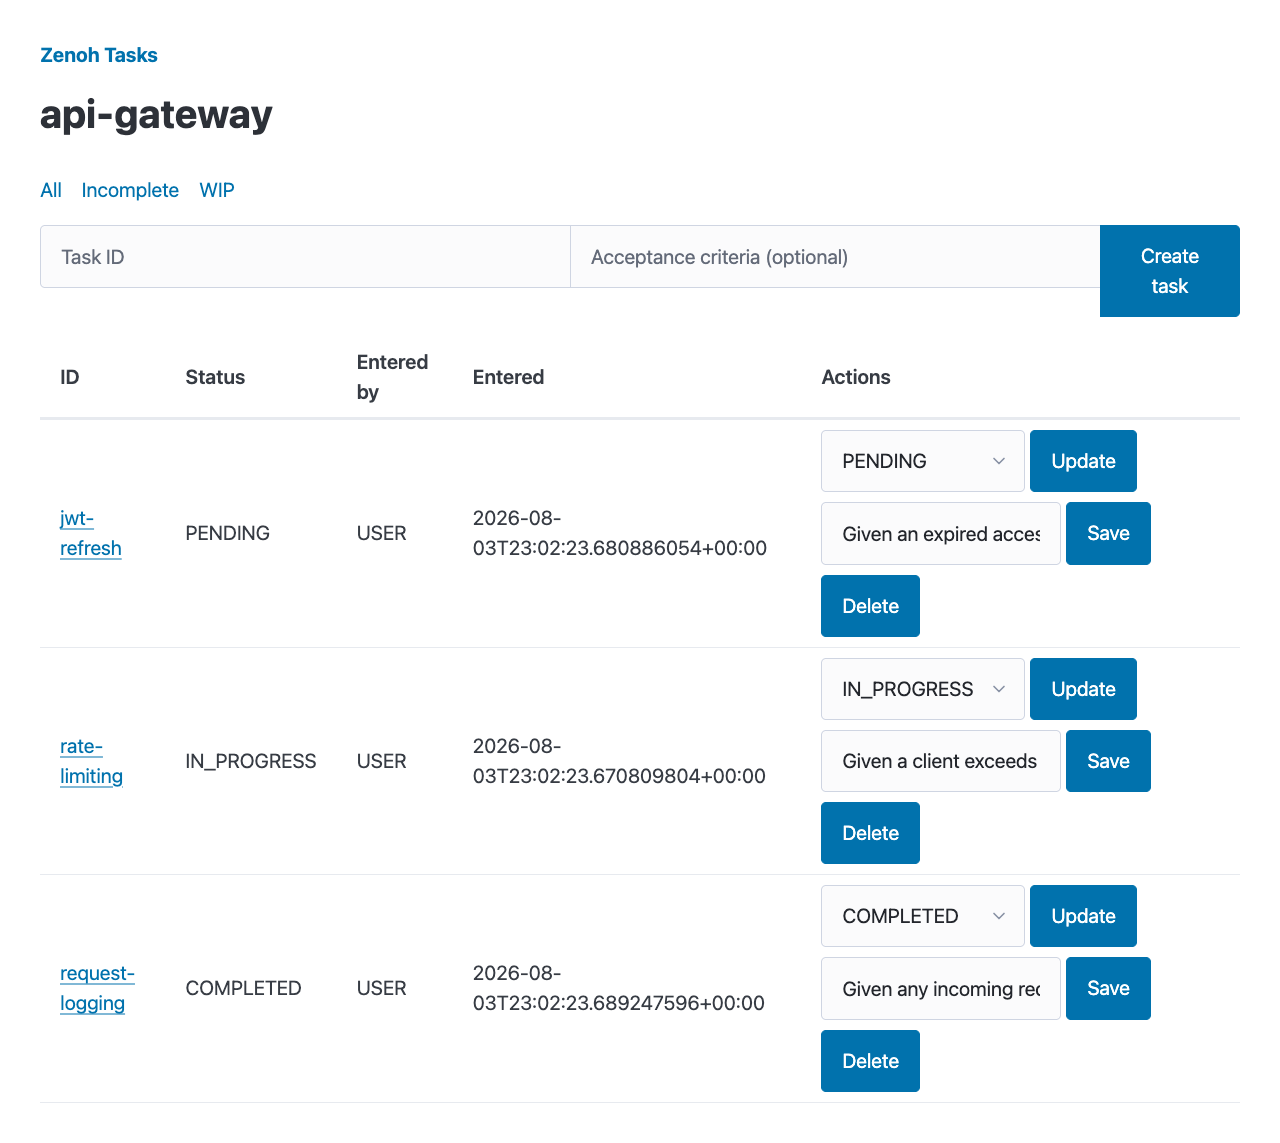
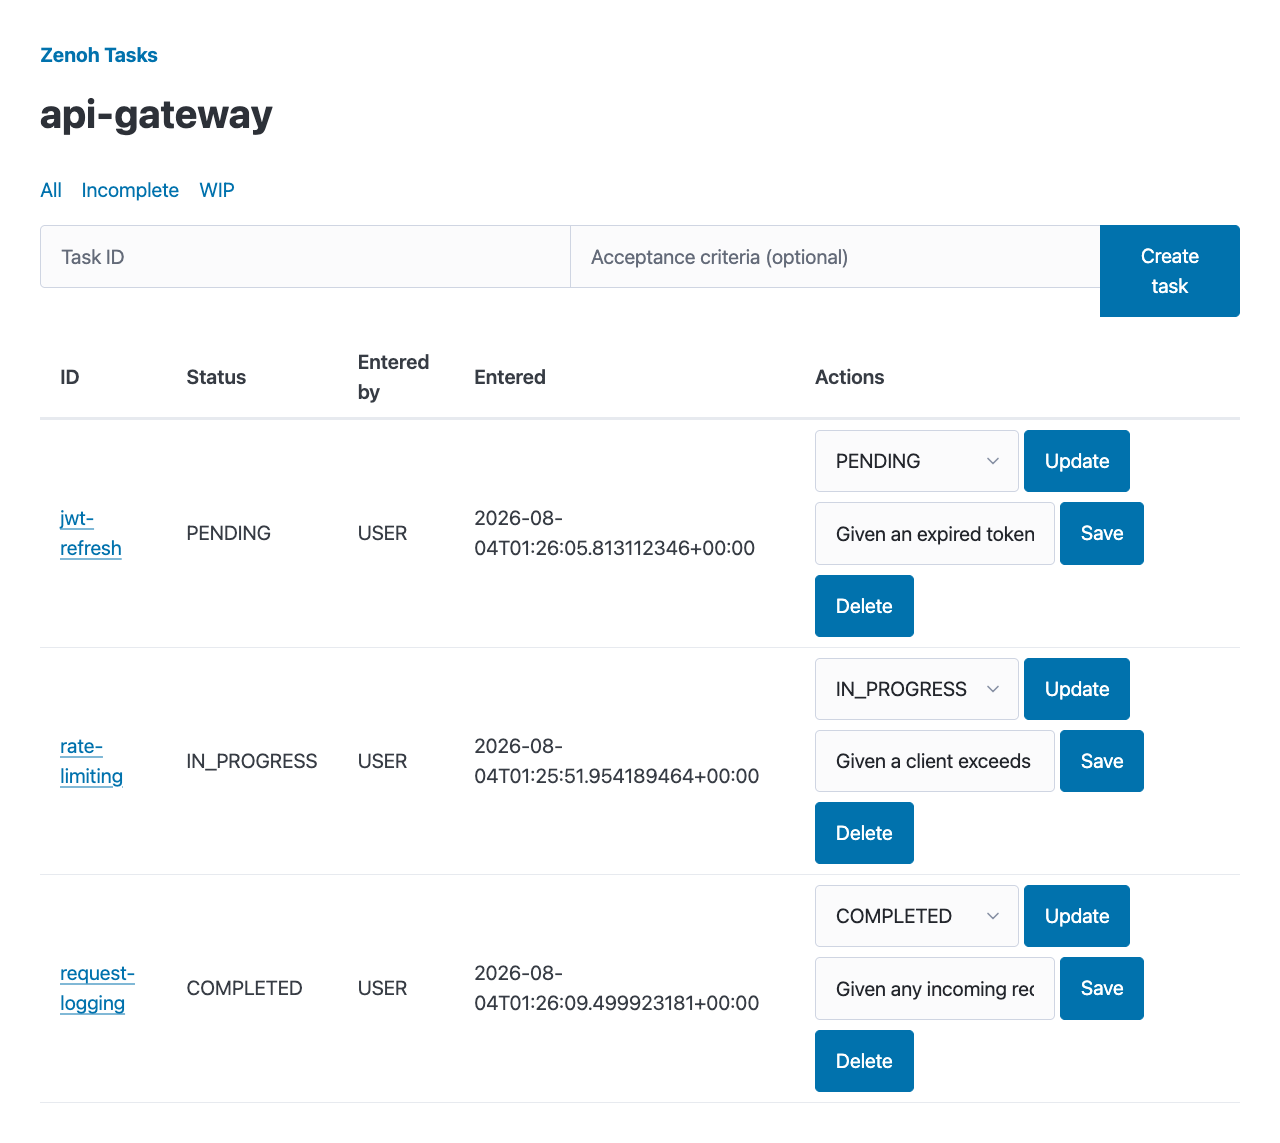
docs: refresh README screenshots for project creation and dashboard sorting

diff --git a/README.md b/README.md
@@ -10,10 +10,10 @@ Three pieces:
 
 - **`ztask`** — a Python CLI for LLM agents and developers to create, query,
   and update tasks. Defaults task creation to `entered_by: LLM`.
-- **`ztask-web`** — a Rust (axum + htmx) admin web UI for humans: an
-  all-projects dashboard and a per-project dashboard with inline
-  create/update-status/edit-criteria/delete. Defaults task creation to
-  `entered_by: USER`.
+- **`ztask-web`** — a Rust (axum + htmx) admin web UI for humans: a sortable
+  all-projects dashboard with inline project creation, and a per-project
+  dashboard with inline create/update-status/edit-criteria/delete. Defaults
+  task creation to `entered_by: USER`.
 - **router** — a `zenohd` + Garry container that both talk to.
 
 ## Quick start
@@ -132,7 +132,7 @@ keyspace is the shared contract.
 
 ## Screenshots
 
-**All-projects dashboard:**
+**All-projects dashboard** — inline project creation, sortable columns (name/total/incomplete/wip/activity), sorted here by Total descending:
 
 ![All-projects dashboard](docs/images/dashboard.png)
 
